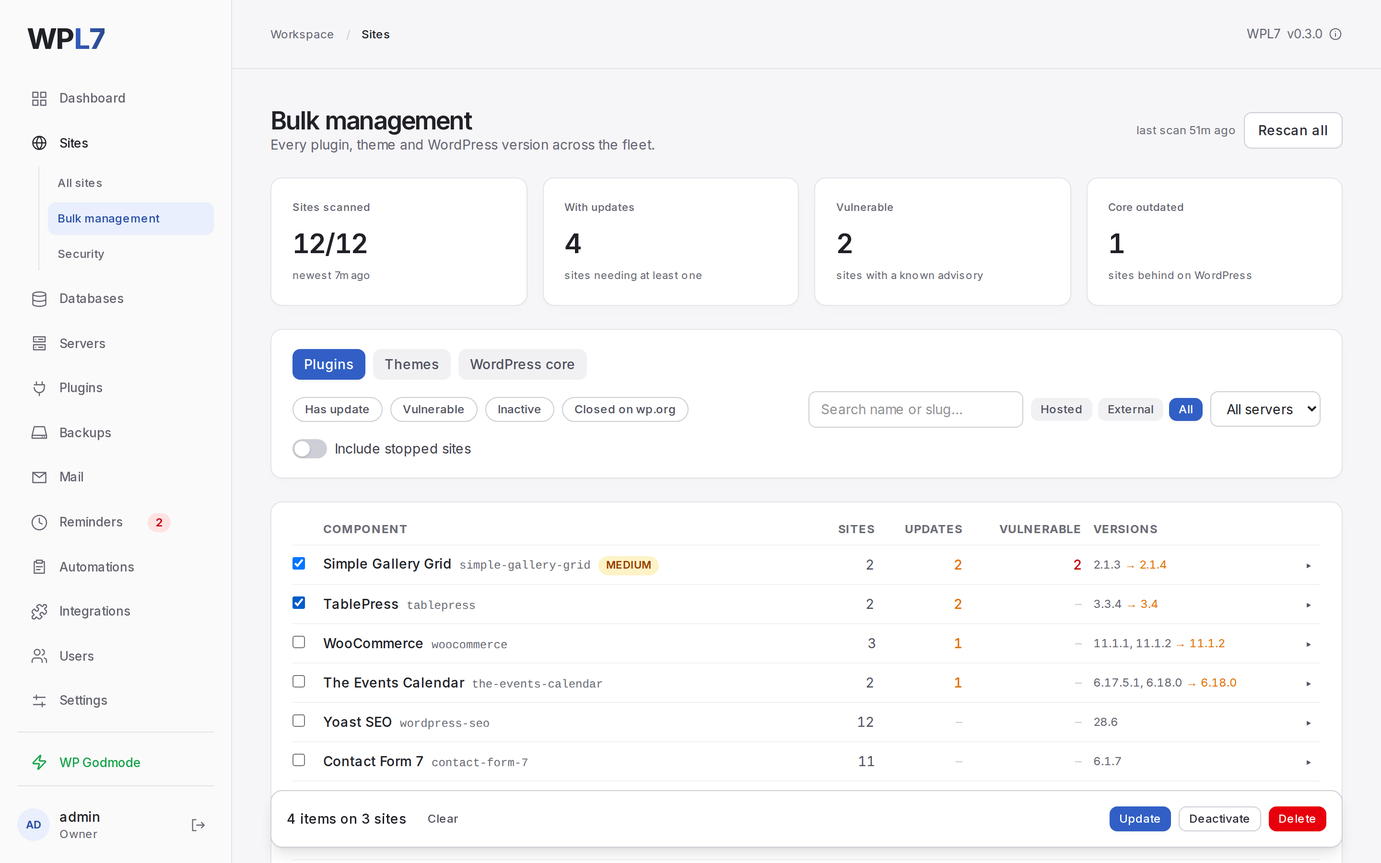
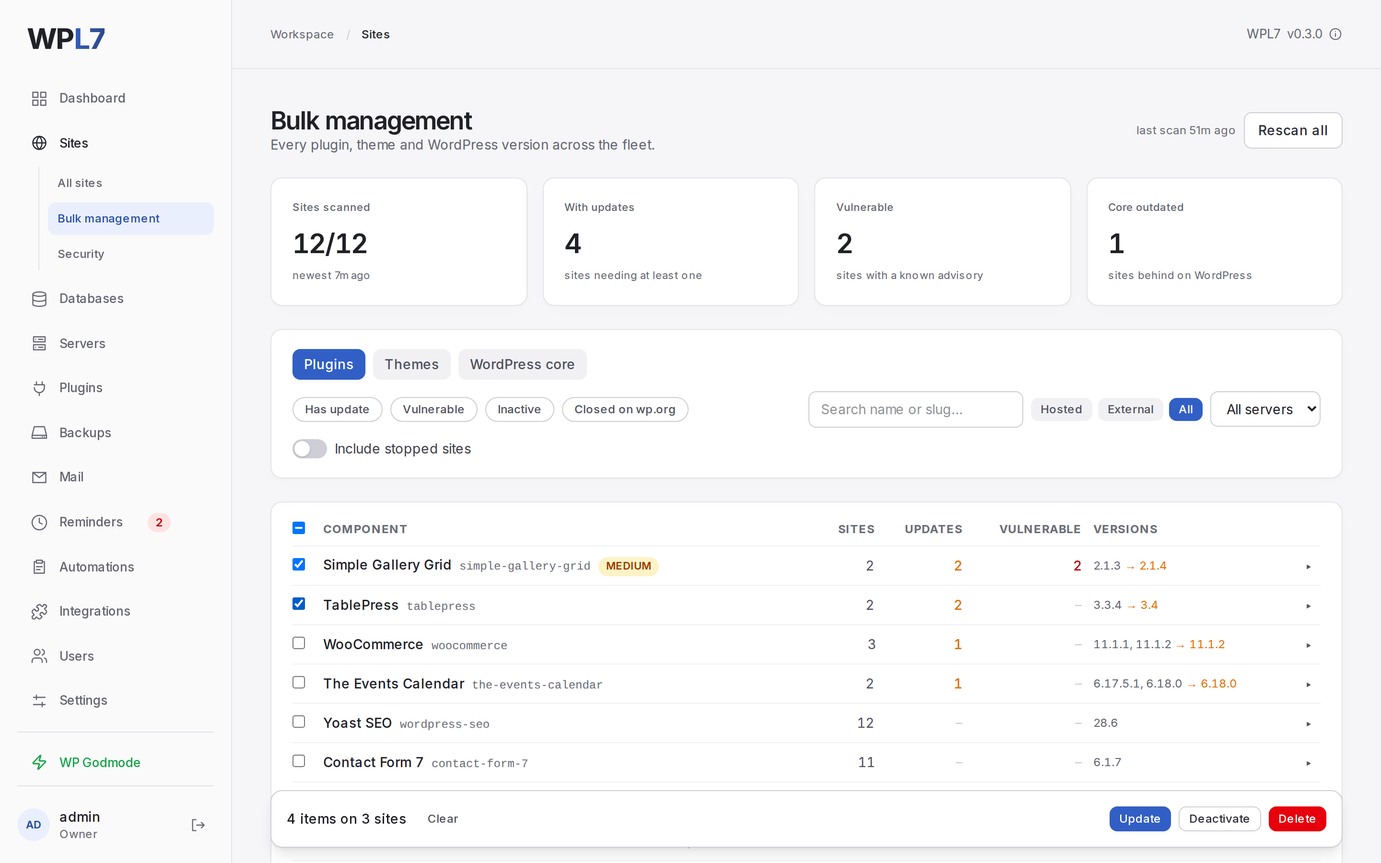
Bulk management's table has a checkbox in its header that selects or clears every row shown (#79)
The header checkbox selects each listed component on every site the filters show, the same
rows the per-row checkboxes select. When everything is selected it clears the selection, and
it is partly checked when only some rows are.

The six High watchlist rows that were due are rechecked. Traefik's rate limit has a second
upstream bug, traefik#14328: requests that arrive at once from a new visitor each get a full
bucket. Its fix, traefik#14329, is now part of the entry's check.

diff --git a/panel/web/src/pages/BulkManagement.tsx b/panel/web/src/pages/BulkManagement.tsx
@@ -24,6 +24,8 @@ import {
   allowedActions,
   filtersForKind,
   reconcileSelection,
+  selectAll,
+  selectionState,
   targetKey,
   targetsForSites,
   visibleRows,
@@ -176,11 +178,13 @@ export function BulkManagement() {
     });
   };
 
-  const groupState = (group: WpInventoryRow): 'none' | 'some' | 'all' => {
-    const keys = group.siteRows.map((r) => targetKey({ siteSlug: r.siteSlug, kind: group.kind, slug: group.slug }));
-    const hits = keys.filter((k) => selected.has(k)).length;
-    return hits === 0 ? 'none' : hits === keys.length ? 'all' : 'some';
-  };
+  const groupState = (group: WpInventoryRow) =>
+    selectionState(
+      selected,
+      group.siteRows.map((r) => targetKey({ siteSlug: r.siteSlug, kind: group.kind, slug: group.slug })),
+    );
+  /** The header checkbox stands for every per-site row on screen, as the filters show them. */
+  const allState = selectionState(selected, visible.keys());
 
   const runBatch = async (action: WpBulkAction) => {
     setError(null);
@@ -421,7 +425,18 @@ export function BulkManagement() {
           <table className="w-full text-sm">
             <thead>
               <tr className="text-left text-xs uppercase tracking-wide text-neutral-400">
-                <th className="w-8 pb-2" />
+                <th className="w-8 pb-2">
+                  <input
+                    type="checkbox"
+                    aria-label="Select all"
+                    title="Select all"
+                    checked={allState === 'all'}
+                    ref={(el) => {
+                      if (el) el.indeterminate = allState === 'some';
+                    }}
+                    onChange={(e) => setSelected(e.target.checked ? selectAll(visible) : new Map())}
+                  />
+                </th>
                 <th className="pb-2">{kind === 'core' ? 'Version' : 'Component'}</th>
                 <th className="pb-2 pr-3 text-right">Sites</th>
                 <th className="pb-2 pr-3 text-right">Updates</th>

diff --git a/panel/test/unit/bulkSelection.test.ts b/panel/test/unit/bulkSelection.test.ts
@@ -4,6 +4,8 @@ import {
   allowedActions,
   filtersForKind,
   reconcileSelection,
+  selectAll,
+  selectionState,
   targetKey,
   targetsForSites,
   visibleRows,
@@ -77,6 +79,21 @@ describe('bulk selection', () => {
     // Somebody else updated beta, so it no longer matches the "has update" filter.
     const refreshed = visibleRows([group('cf7', [siteRow('alpha')])]);
     expect([...reconcileSelection(selected, refreshed).keys()]).toEqual(['alpha|plugin|cf7']);
+  });
+
+  it('selects every row on screen from the header, and shows how much is selected', () => {
+    const visible = visibleRows([group('cf7', [siteRow('alpha'), siteRow('beta')]), group('seo', [siteRow('alpha')])]);
+    const all = selectAll(visible);
+    expect([...all.values()]).toEqual([target('alpha', 'cf7'), target('beta', 'cf7'), target('alpha', 'seo')]);
+    // Exactly what is on screen: nothing for the reconciliation to drop.
+    expect(reconcileSelection(all, visible)).toBe(all);
+
+    expect(selectionState(all, visible.keys())).toBe('all');
+    expect(selectionState(select(target('beta', 'cf7')), visible.keys())).toBe('some');
+    expect(selectionState(new Map(), visible.keys())).toBe('none');
+    // A row a refresh added makes a full selection partial again.
+    const refreshed = visibleRows([group('cf7', [siteRow('alpha'), siteRow('beta'), siteRow('gamma')]), group('seo', [siteRow('alpha')])]);
+    expect(selectionState(all, refreshed.keys())).toBe('some');
   });
 
   it('returns the same map when nothing was dropped, so it is safe in a setState updater', () => {

diff --git a/panel/web/src/pages/bulkSelection.ts b/panel/web/src/pages/bulkSelection.ts
@@ -49,6 +49,24 @@ export function reconcileSelection(
   return kept.size === selected.size ? selected : kept;
 }
 
+/** Every row on screen, selected: what the header checkbox selects. */
+export function selectAll(visible: Map<string, VisibleRow>): Map<string, Target> {
+  return new Map(
+    [...visible].map(([key, v]) => [key, { siteSlug: v.row.siteSlug, kind: v.kind, slug: v.slug }]),
+  );
+}
+
+/** How many of these rows are selected, for a checkbox that stands for all of them. */
+export function selectionState(selected: Map<string, Target>, keys: Iterable<string>): 'none' | 'some' | 'all' {
+  let total = 0;
+  let hits = 0;
+  for (const key of keys) {
+    total += 1;
+    if (selected.has(key)) hits += 1;
+  }
+  return hits === 0 ? 'none' : hits === total ? 'all' : 'some';
+}
+
 /** The selected targets that are still on screen, in selection order. */
 export function visibleTargets(selected: Map<string, Target>, visible: Map<string, VisibleRow>): Target[] {
   return [...selected.entries()].filter(([key]) => visible.has(key)).map(([, target]) => target);

diff --git a/docs/internal/watchlist.md b/docs/internal/watchlist.md
@@ -20,10 +20,10 @@ for a reason; remove one once there is nothing left to watch.
 | [RDAP: registry endpoints and bootstrap](#rdap-registry-endpoints-and-bootstrap) | Medium | 2026-11-13 13:08 UTC | .co, .io, .me and .us still absent from IANA; all four supplement endpoints publish `expiration`; RFC 8056 and ICANN's profile unchanged |
 | [Reminders: PHP and OS support dates](#reminders-php-and-os-support-dates) | Medium | 2026-11-13 13:02 UTC | All dates match; PHP 8.6 not out (GA due 2026-11-19); the interim Ubuntu 26.10 is not in the map |
 | [Reminders: Cloudflare token lifetime](#reminders-cloudflare-token-lifetime) | Medium | 2026-11-13 13:15 UTC | Contracts unchanged; neither verify endpoint is documented to take `cfoat_` OAuth tokens, so one would get no date |
-| [Traefik: an idle visitor's rate limit refills](#traefik-an-idle-visitors-rate-limit-refills) | High | 2026-11-15 19:04 UTC | Open upstream, fix #13958 awaiting review; not in v3.7.19; worked around |
-| [AMWScan: the pinned image and its signatures](#amwscan-the-pinned-image-and-its-signatures) | High | 2026-11-15 19:04 UTC | 0.21.20 is out as a tag and an image, with no release yet; same definitions as the pinned 0.21.12; its Lite mode skips more signatures and no longer errors on oversized scripts |
+| [Traefik: an idle visitor's rate limit refills](#traefik-an-idle-visitors-rate-limit-refills) | High | 2026-11-24 09:18 UTC | Open upstream, fix #13958 awaiting review; not in v3.7.20 or v3.8.0; worked around. New, #14328: requests arriving at once each get a full bucket, past the bursts of 2 |
+| [AMWScan: the pinned image and its signatures](#amwscan-the-pinned-image-and-its-signatures) | High | 2026-11-24 09:19 UTC | 0.21.20 released on 2026-11-15, the latest; same definitions as the pinned 0.21.12; moving the pin is due |
 | [AMWScan: WPL7's tuning of it](#amwscan-wpl7s-tuning-of-it) | Medium | 2026-11-01 09:08 UTC | Both overrides still match in 0.21.15, the latest; `@preg_replace` is still 22c684e7; engine test not run at this check |
-| [SFTPGo: our build and its overwrite patch](#sftpgo-our-build-and-its-overwrite-patch) | High | 2026-11-15 19:04 UTC | 2.7.6 is the latest; patch still needed |
+| [SFTPGo: our build and its overwrite patch](#sftpgo-our-build-and-its-overwrite-patch) | High | 2026-11-24 09:19 UTC | 2.7.6 is the latest, no new advisory; patch still needed |
 | [PHP security releases and the site image's floor](#php-security-releases-and-the-site-images-floor) | High | 2026-11-19 19:51 UTC | 8.2.36, 8.3.37, 8.4.28 and 8.5.13 out today, all security releases: floor raised to them, released in 0.4.1; Docker's bases and the edge images carry them; the refresh workflow has had no scheduled run on `main` yet |
 | [phpredis: the pinned 6.3.0](#phpredis-the-pinned-630) | Medium | 2026-11-01 09:08 UTC | 6.3.0 is the latest on PECL and GitHub |
 | [Redis in the site image](#redis-in-the-site-image) | Medium | 2026-11-01 09:08 UTC | Debian's 5:8.0.2-3+deb13u3; three open issues on trixie, none reachable here; `LICENSE.txt` still offers AGPLv3 |
@@ -40,8 +40,8 @@ for a reason; remove one once there is nothing left to watch.
 | [Docker: the build cache and image names, as the nightly clean-up reads them](#docker-the-build-cache-and-image-names-as-the-nightly-clean-up-reads-them) | Medium | 2026-10-27 17:47 UTC | Docker 29.9.2: both prune parameters trim, `all` would remove shared layers first |
 | [Docker: a CPU cap stays on a running container](#docker-a-cpu-cap-stays-on-a-running-container) | Low | 2026-10-19 16:22 UTC | Open upstream; worked around by a new container |
 | [Docker: a signal counts as stopping a container by hand](#docker-a-signal-counts-as-stopping-a-container-by-hand) | Medium | 2026-11-01 06:30 UTC | Docker 28.1.1: after `docker kill --signal USR1`, a container with `unless-stopped` that exits stays down |
-| [Traefik: a router on web beside the HTTPS redirect](#traefik-a-router-on-web-beside-the-https-redirect) | High | 2026-11-14 20:51 UTC | Traefik 3.7.19: with the redirect at priority 1, an app's http router answers, everything else still redirects, the ACME router stays above |
-| [Docker: an image's labels on its container](#docker-an-images-labels-on-its-container) | High | 2026-11-14 20:51 UTC | Docker 28.1.1, Traefik 3.7.19: labels are inherited; `traefik.enable=false` on the container wins; the default router answers on 80 and 443 |
+| [Traefik: a router on web beside the HTTPS redirect](#traefik-a-router-on-web-beside-the-https-redirect) | High | 2026-11-24 09:19 UTC | Traefik 3.7.20 and 3.8.0: nothing on entry point redirections, router priorities or the ACME HTTP challenge; engine test not run at this check |
+| [Docker: an image's labels on its container](#docker-an-images-labels-on-its-container) | High | 2026-11-24 09:19 UTC | Docker 29.10.0, Traefik 3.7.20 and 3.8.0: nothing on label inheritance, `exposedByDefault` or the default rule; engine test not run at this check |
 | [Docker: the names in an image archive](#docker-the-names-in-an-image-archive) | Medium | 2026-11-14 20:51 UTC | Docker 28.1.1 and 27.5.1: the classic store reads `manifest.json`, containerd's `index.json`; renamed in both, only the panel's name lands |
 | [Docker: the registry's distribution answer and pulls with a login](#docker-the-registrys-distribution-answer-and-pulls-with-a-login) | Medium | 2026-11-14 20:51 UTC | Docker 28.1.1 and 27.5.1: a digest without a pull, with the login; platforms for a list only on containerd's store |
 | [Docker: unprivileged ports from 0](#docker-unprivileged-ports-from-0) | Low | 2026-11-14 20:51 UTC | Docker 28.1.1 sets `ip_unprivileged_port_start=0` in a container's namespace |
@@ -73,7 +73,7 @@ for a reason; remove one once there is nothing left to watch.
 | [msmtp: one envelope sender, as `wpl7-sendmail` relies on it](#msmtp-one-envelope-sender-as-wpl7-sendmail-relies-on-it) | Low | 2026-11-11 23:04 UTC | msmtp 1.8.28 in the image, 1.8.34 upstream; nothing since changes the four behaviours; the engine mail tests pass |
 | [sodium_compat for PHP 7.0 in CI](#sodium_compat-for-php-70-in-ci) | Low | 2026-10-09 15:55 UTC | 1.24.2 is the newest 1.x and takes PHP 7; 2.x needs 8.1 |
 | [The MariaDB image's bash and client, as the database browser and imports rely on them](#the-mariadb-images-bash-and-client-as-the-database-browser-and-imports-rely-on-them) | Medium | 2026-11-19 08:16 UTC | `mariadb:11.4` (11.4.13 on Ubuntu 24.04, rebuilt 2026-11-11) has bash 5.2 with `/dev/tcp`, and its client refuses a dump's commands; the engine test passes |
-| [Adminer: the pinned build and its advisories](#adminer-the-pinned-build-and-its-advisories) | High | 2026-11-15 19:04 UTC | 6.3.0 (2026-11-03) is the latest, 6.2.0 still pinned; its sign-in answers 303, which the panel refuses; no new advisory; base is PHP 8.4.27 |
+| [Adminer: the pinned build and its advisories](#adminer-the-pinned-build-and-its-advisories) | High | 2026-11-24 09:20 UTC | 6.3.1 (2026-11-20) is the latest, 6.2.0 still pinned; its low `where` advisory is in 6.2.0's code too, the SQLite one not in the MySQL build; base PHP 8.4.28, image 8.4.27 |
 | [wordpress.org's directory, as the panel's closed flag reads it](#wordpressorgs-directory-as-the-panels-closed-flag-reads-it) | Medium | 2026-11-19 11:43 UTC | The feed still calls `bbpress` and `bbpress-private-replies` closed and misses `captcha`; the directory answers as `wporgListing` reads them |
 | [Google's crawler address lists](#googles-crawler-address-lists) | Medium | 2026-11-03 09:35 UTC | Both answer: 589 prefixes, none wider than a /27 or a /64 |
 | [ssh2: how a channel closes, as the panel's SSH channels rely on it](#ssh2-how-a-channel-closes-as-the-panels-ssh-channels-rely-on-it) | Low | 2026-11-15 10:57 UTC | 1.17.0 is the latest; channels half-open by default, `destroy()` never marks one destroyed, `'close'` waits for `'end'` or an unreadable stream |
@@ -81,57 +81,70 @@ for a reason; remove one once there is nothing left to watch.
 ## Traefik: an idle visitor's rate limit refills
 
 - **Priority:** High
-- **Last checked:** 2026-11-15 19:04 UTC. [traefik#13957](https://github.com/traefik/traefik/issues/13957)
-  is open, with nothing since the Traefik team said on 2026-09-28 they would reproduce it. Its
-  fix, [traefik#13958](https://github.com/traefik/traefik/pull/13958) (against `v3.7`, milestone
-  3.7), still waits for review, with nothing since a user's comment of 2026-10-29 asking for a
-  merge. v3.7.19 (2026-11-13) is now the latest, which `traefik:v3.7` in
-  `deploy/docker-compose.yml` follows. Neither it nor v3.7.18 (2026-11-10) has a rate-limiter
-  item in its notes, and nor have v2.11.62, v2.11.63, v3.8.0-rc.2 and v3.8.0-rc.3, out on the same
-  two days. v3.7.18 fixes five advisories, in the Compress, BasicAuth and ForwardAuth
-  middlewares, the ingress-nginx provider and the clean-up of request paths; v3.7.19 moves three
-  dependencies. None of the five reaches WPL7, which sets up none of those middlewares and not the
-  ingress-nginx provider. The path one, [GHSA-cp28-5662-543f](https://github.com/traefik/traefik/security/advisories/GHSA-cp28-5662-543f),
-  leaves `/..;x/` in the path a router matches, which bypasses a rule only in front of a backend
-  that strips path parameters, such as a servlet container; Apache and nginx, in front of PHP,
-  take `..;x` for a folder's name. Nothing under `pkg/middlewares/ratelimiter` has changed on `v3.7`, `v3.8` or
-  `master` since 2026-09-24. A server gets the five when it next pulls `traefik:v3.7`.
+- **Last checked:** 2026-11-24 09:18 UTC. [traefik#13957](https://github.com/traefik/traefik/issues/13957)
+  is open, with nothing from the Traefik team since 2026-09-28. Its fix,
+  [traefik#13958](https://github.com/traefik/traefik/pull/13958) (against `v3.7`, milestone 3.7),
+  still waits for review. Two users have commented since the last check. One (2026-11-19) measured
+  a residual on top of it: the in-memory map keeps expiries in whole seconds, so a bucket can still
+  go up to a second early, and suggested a one-line follow-up. v3.7.20, v3.8.0 and v2.11.64 came
+  out on 2026-11-23, none with a rate-limiter item in its notes. `traefik:v3.7` moved to 3.7.20 that
+  evening and does not follow 3.8 (`v3.8` and `latest` do). Nothing under
+  `pkg/middlewares/ratelimiter` has changed on `v3.7`, `v3.8` or `master` since 2026-09-24.
+  3.7.20 fixes three advisories, published on 2026-11-24: memory exhaustion through the Compress
+  middleware's Brotli writer
+  ([GHSA-3rh5-223h-cpwr](https://github.com/traefik/traefik/security/advisories/GHSA-3rh5-223h-cpwr),
+  high), provider credentials in debug logs and support dumps (GHSA-42x2-976f-ph52), and hosts with
+  a trailing dot evading TLS-option conflict detection (GHSA-9657-c2gv-wjpj). None reaches WPL7,
+  which sets up no Compress middleware, no HTTP provider, no Docker provider password and no
+  client-certificate TLS options, and logs at INFO. A server gets them when it next pulls
+  `traefik:v3.7`. New and related:
+  [traefik#14328](https://github.com/traefik/traefik/issues/14328) (2026-11-19, labelled confirmed):
+  in the in-memory backend, requests that arrive at once from a source without a bucket each make a
+  full one, so more than `burst` get through, and again each time an idle bucket has expired
+  (#13957). Its test let up to 16 of 16 simultaneous first requests through at a burst of 5. The
+  bursts of 2 do not cover a guesser who sends requests in parallel after each pause; not measured
+  here. Its fix, [traefik#14329](https://github.com/traefik/traefik/pull/14329) (against `v3.7`, no
+  milestone), waits for review.
 - **The problem:** Traefik drops a visitor's rate-limit bucket after `1 + 1/rate` seconds without
   a request - 2 seconds for limits of one a second or more, 4 for 20 a minute - and starts the
   next request on a full burst. With logins at 20 a minute in bursts of 30, a guesser who paused
-  five seconds got 30 more every time.
+  five seconds got 30 more every time. Requests that arrive at once from a visitor with no bucket
+  each get a full one ([traefik#14328](https://github.com/traefik/traefik/issues/14328)), so
+  requests sent in parallel get past the burst too. Attack detection, on by default, still blocks an
+  address that keeps at it.
 - **What we do about it:** logins (Standard 20 a minute, Strict 6) and XML-RPC (30 a minute)
   come in bursts of 2, so a pause gains two (`LEVEL_PRESETS` in `panel/shared/security.ts`).
   Requests and assets keep their large bursts; `docs/security.md` lists that as a known limit.
-- **Check:** `gh issue view 13957 -R traefik/traefik --comments`, and the release notes of every
-  Traefik release since the last check for rate-limit changes. `traefik:v3.7` follows 3.7.x
+- **Check:** `gh issue view 13957 -R traefik/traefik --comments`, `gh issue view 14328 -R
+  traefik/traefik --comments` and its fix, `gh pr view 14329 -R traefik/traefik`, and the release
+  notes of every Traefik release since the last check for rate-limit changes. `traefik:v3.7` follows 3.7.x
   releases: `setup.sh` pulls it (`compose pull`) whenever it runs, as on an update.
 - **When it changes:** once a release we deploy has the fix, measure it. Use a file-provider
   router with `rateLimit` average 20, period 1m, burst 30. Send 40 requests, wait five seconds,
-  send 40 more: fixed, the second round gets one or two through, not 30. Then offer the user the
+  send 40 more: fixed, the second round gets one or two through, not 30. For #14328's fix, send 40
+  at once from an address with no bucket: fixed, 30 get through, not 40. Then offer the user the
   plan's bursts back (logins 30 Standard and 10 Strict, XML-RPC 30). Update the `LEVEL_PRESETS`
   comment, the level table and the known limit in `docs/security.md`.
 
 ## AMWScan: the pinned image and its signatures
 
 - **Priority:** High
-- **Last checked:** 2026-11-15 19:04 UTC. Upstream moved on the day of this check: 0.21.16 to
-  0.21.20 were tagged within half an hour, after a 0.22.0 it took back, and of the five only
-  0.21.20 has a Docker Hub image. None has a GitHub release yet, so v0.21.15 (2026-10-03) is still
-  the latest there. We pin 0.21.12, whose definitions are 2026.09.08.1, and 0.21.20 bundles the
-  same: its `signatures.json`, `exploits.json` and `hashes.json` are those of 0.21.15 byte for
-  byte, `functions.json` has the same content, and the manifest differs in `createdAt` only. What
-  changed is the engine and the image. `--lite`, which WPL7 passes, now skips four more signatures
+- **Last checked:** 2026-11-24 09:19 UTC. 0.21.20 got its GitHub release ("Maintenance release")
+  at 19:20 UTC on 2026-11-15, 16 minutes after the last check, and is the latest. Nothing has been
+  tagged or committed since. Its release's phar bundles definitions 2026.09.08.1, the pinned
+  0.21.12's: `signatures.json`, `exploits.json` and `hashes.json` byte for byte, `functions.json`
+  with the same content, and the definition sources are identical at both tags. Docker Hub's
+  `0.21.20` (also `0.21` and `latest`) is
+  `sha256:430618977f11050678535ea591417e157d2c9f70b2fe42f9370ac09afdcd5b22`, amd64 and arm64,
+  rebuilt from the release commit at 19:21 UTC that day. What changed since 0.21.12 is the engine
+  and the image, as the last check found. `--lite`, which WPL7 passes, skips four more signatures
   (`0f53abf5`, `85310fdd`, `8c60fbdb`, `e6300ec0`) and any signature match that contains `ls-la`
-  or a schema.org product snippet. It also defines `LITE_SIGNATURE_MATCH_EXCLUSIONS`, which
-  0.21.12 to 0.21.15 read without defining: in Lite mode, a signature found in the first or last
-  32 KiB of an oversized script raises a PHP error there (`Undefined constant`) instead of a
-  finding. What the pinned scanner then reports for that file was not traced. There is a new
-  `--memory-limit` (the default stays 1G), a patched Symfony Filesystem, and libxml2 and musl from
-  Alpine edge in the image. The pin stays for now: the signatures are the same, and a release that
-  took five tags in half an hour may not have settled. Moving it comes up again once 0.21.20, or
-  what follows it, has a release: it would report fewer Lite-mode false positives, end the
-  oversized-script error, and check every catalog zip again.
+  or a schema.org product snippet. It defines `LITE_SIGNATURE_MATCH_EXCLUSIONS`, which 0.21.12 reads
+  without defining: in Lite mode, a signature in the first or last 32 KiB of an oversized script
+  raises `Undefined constant` there instead of a finding. There is a new `--memory-limit` (default 1G), a patched Symfony
+  Filesystem, and libxml2 and musl from Alpine edge. The condition the last check set for moving
+  the pin is met: a release, and nothing since in nine days. The move (**When it changes**) is
+  due; this check did not make it.
 - **The problem:** the scanner image is pinned by digest (`SCANNER_IMAGE` in
   `panel/src/services/scanEngines.ts`) and runs with `--disable-definitions-update`. Its
   signatures are the ones bundled in that image, and they age until the pin moves. Upstream
@@ -180,18 +193,20 @@ for a reason; remove one once there is nothing left to watch.
 ## SFTPGo: our build and its overwrite patch
 
 - **Priority:** High
-- **Last checked:** 2026-11-15 19:04 UTC. We build v2.7.6 (commit 62ae9ba3) with
+- **Last checked:** 2026-11-24 09:19 UTC. We build v2.7.6 (commit 62ae9ba3) with
   `deploy/sftpgo-image/staged-overwrite.patch`; v2.7.6 (2026-09-19) is still the latest release,
   and no advisory has been published since the four of that day, which 2.7.6 fixes (one high:
   stored XSS through directory names in the WebClient). The `2.7.x` branch has not moved since
-  2026-09-26. `main` got 12 commits, pushed 2026-11-09 to 2026-11-15, among them a fix for a
-  panic when a rename's target is missing on S3, a periodic check that closes sessions no longer
-  valid, the external auth hook answering first in keyboard-interactive sign-in, and an
-  ftpserverlib update. None changes how an upload replaces a file: they touch none of the upload
-  handlers the patch changes, and the rename that completes an atomic upload
-  (`BaseTransfer.Close`, `internal/common/transfer.go`) is unchanged since 2026-10-17. The
-  patch's code still applies to `main`; one test hunk, in `internal/sftpd/sftpd_test.go`, does
-  not. `main` now needs Go 1.27, so the builder image moves with the next release.
+  2026-09-26. `main` got 9 commits, 2026-11-19 to 2026-11-21. One (0f4cece8) removes creating
+  symbolic links over every protocol (`symlink_mode` is ignored with a warning) and opens sub-path
+  mounts inside their folder; WPL7 never grants `create_symlinks` (`FULL_ACCESS` in
+  `panel/src/services/ftpConfig.ts`). The others merge directories in recursive copies, refuse a
+  file in a parent path on object storage, add `loaddata-fail-on-error`, and update dependencies.
+  None changes how an upload replaces a file: the FTP, SFTP and SCP handlers on `main` still rename
+  the existing file to the temporary path first, and `BaseTransfer.Close`
+  (`internal/common/transfer.go`) is unchanged since 2026-10-17. The patch's code still applies to
+  `main` (360ca011), with offsets; the one test hunk in `internal/sftpd/sftpd_test.go` still does
+  not. `main` needs Go 1.27, so the builder image moves with the next release.
 - **The problem:** SFTPGo is on the internet (FTP and SFTP). Upstream's `upload_mode: 1` renames
   an existing file to a temporary name before an overwrite, so the file is missing for the whole
   transfer - WordPress without its `wp-config.php` shows the installer - and is deleted if the
@@ -610,12 +625,19 @@ for a reason; remove one once there is nothing left to watch.
 ## Traefik: a router on web beside the HTTPS redirect
 
 - **Priority:** High
-- **Last checked:** 2026-11-14 20:51 UTC. On Traefik 3.7.19, with `deploy/docker-compose.yml`'s own
-  flags plus `--entrypoints.web.http.redirections.entrypoint.priority=1`, a container app's router on
-  `web` answers plain http, and every other request on port 80 still redirects: a WordPress and a PHP
-  site under the panel's labels and protection files, and a host nobody has. The ACME challenge router
-  (`acme-http@internal`, MaxInt) stays above every app route, and Pebble issued certificates over
-  HTTP-01 for the app's host and the sites'. Without the flag, the redirect beats every router on `web`.
+- **Last checked:** 2026-11-24 09:19 UTC. v3.7.20 and v3.8.0 came out on 2026-11-23; `traefik:v3.7`
+  is now 3.7.20 and does not follow 3.8. Neither's notes, nor the v3.8.0 migration guide, touch entry
+  point redirections, router priorities or the ACME HTTP challenge. 3.7.20 moves lego to v5.7.0 and
+  keeps the OCSP staple cache alive. 3.8.0 adds `**.` wildcard hosts, which rank below single
+  wildcards and leave the default priority of existing rules unchanged. From v3.7.19 to v3.7.20
+  nothing changed in the internal provider that makes the redirect router, nor in the HTTP
+  challenge's code. The engine test was not run at this check. At the last one, on Traefik 3.7.19
+  with `deploy/docker-compose.yml`'s flags and the redirect at priority 1, a container app's router
+  on `web` answered plain http, and every other request on port 80 still redirected: a WordPress and
+  a PHP site under the panel's labels and protection files, and a host nobody has. The ACME challenge
+  router (`acme-http@internal`, MaxInt) stayed above every app route, and Pebble issued certificates
+  over HTTP-01 for the app's host and the sites'. Without the flag, the redirect beats every router
+  on `web`.
 - **The problem:** a container app may answer plain http (a payment provider's webhook, an old client).
   Traefik's entry point redirect is a router of its own; its default priority is the highest there is,
   so a router on `web` never answers. Set to 1, any router there wins over it.
@@ -634,11 +656,17 @@ for a reason; remove one once there is nothing left to watch.
 ## Docker: an image's labels on its container
 
 - **Priority:** High
-- **Last checked:** 2026-11-14 20:51 UTC. On Docker 28.1.1 with Traefik 3.7.19, an image's `traefik.*`
-  and `wpl7.*` labels land on a container made without labels: Traefik routed another site's domain to
-  it at once, and `listManaged(['wpl7.role=wordpress'])` counted it as that site's. `traefik.enable=false`
-  on the container wins over the image's. A container with `traefik.enable=true` and only a service label
-  gets a default router, `Host(<container name>)` with no TLS, on ports 80 and 443.
+- **Last checked:** 2026-11-24 09:19 UTC. Docker Engine 29.10.0 (2026-11-16, API 1.57) is the only
+  Engine release since the last check; neither its notes nor the API changelog say anything about
+  labels. Traefik 3.7.20 and 3.8.0 change nothing in how the Docker provider reads labels:
+  `pkg/config/label` and the provider's label parsing are unchanged, `exposedByDefault` still
+  defaults to true and the default rule is still `` Host(`{{ normalize .Name }}`) ``. 3.7.20 only
+  keeps the provider's password out of logs. The engine test (items 3 and 7) was not run at this
+  check. At the last one, on Docker 28.1.1 with Traefik 3.7.19, an image's `traefik.*` and `wpl7.*`
+  labels landed on a container made without labels: Traefik routed another site's domain to it at
+  once, and `listManaged(['wpl7.role=wordpress'])` counted it as that site's. `traefik.enable=false`
+  on the container won over the image's. A container with `traefik.enable=true` and only a service
+  label got a default router, `Host(<container name>)` with no TLS, on ports 80 and 443.
 - **The problem:** a container app's image is the user's, built elsewhere. Its labels would claim
   domains in Traefik and pass for a site's container in the panel's sweeps.
 - **What we do about it:** an image with a `traefik.*` or `wpl7.*` label is refused after its pull or
@@ -1468,22 +1496,28 @@ for a reason; remove one once there is nothing left to watch.
 ## Adminer: the pinned build and its advisories
 
 - **Priority:** High
-- **Last checked:** 2026-11-15 19:04 UTC. No release and no advisory since the last check.
-  Adminer 6.3.0 (2026-11-03) is the latest release; the image still pins 6.2.0. 6.3.0 fixes a
-  CSRF regression from 6.0.1 that has no advisory: a POST
-  with any `auth[]` field and a wrong token had the token replaced by a valid one, and ran its
-  action in the existing session (vrana/adminer#1375). It does not reach our build: `router.php`
-  refuses a POST with `auth` that lacks the panel's login key, and the panel's own sign-in posts
-  no token. The notes rename or remove no hook `wpl7.php` uses, and `connection()`,
-  `adminer_object()` and `X-Forwarded-Prefix` work as before; they add the plugin methods
-  `executeQuery()` and `donation()`. But redirects after a POST now answer 303, not 302, the
-  sign-in's and Logout's among them, and the panel takes anything but 302 as a refused sign-in
-  (`prepare()` in `panel/src/adminer/index.ts`). Moving the pin needs that check to accept 303
-  too, the tests that expect 302 changed, and the engine test run on 6.3.0, which this check did
-  not do. There are still 22 advisories, the newest
-  GHSA-r9r5-j5q8-8c59 (2026-09-25), in the SQLite driver, which the MySQL-only build leaves out.
-  The image's base, `php:8.4-cli-alpine`, is still PHP 8.4.27 (built 2026-11-05). The engine test
-  was not run at this check.
+- **Last checked:** 2026-11-24 09:20 UTC. [Adminer 6.3.1](https://github.com/vrana/adminer/releases/tag/v6.3.1)
+  came out on 2026-11-20 and is the latest; the image still pins 6.2.0. It fixes two advisories
+  published that day, 24 in all now.
+  [GHSA-5xfm-7vgj-3f39](https://github.com/vrana/adminer/security/advisories/GHSA-5xfm-7vgj-3f39)
+  (medium, a `file:` URI as a database name, then a PHP file written) is in the SQLite driver, which
+  the pinned MySQL-only file leaves out: it has no `check_sqlite_name`.
+  [GHSA-qjv8-pw8g-jw65](https://github.com/vrana/adminer/security/advisories/GHSA-qjv8-pw8g-jw65)
+  (low) puts keys of `where[]` from the URL into the Select page's search form unescaped, an HTML
+  attribute injection. It names only 6.3.0, but `selectSearchPrint` is the same in 6.2.0 and the
+  pinned file prints `name='where[$r][col]'`. The front door refuses a request another site starts
+  (`Sec-Fetch-Site`), which is how such a link would arrive. 6.3.1 also escapes, with no advisory, a
+  geometry column's name in conditions, edit and export (SQL injection) and a FULLTEXT index's name
+  in the search form (HTML injection); the pinned file has both unescaped. Both names come from the
+  site's own schema, and Adminer signs in as that site's own user. A POST sent with an expired
+  session now runs after the sign-in only if Adminer sent it, and the CSRF token is 128 bits. The
+  notes rename or remove no hook `wpl7.php` uses, and the 6.3.1 file still calls all ten,
+  `connection()` and `adminer_object()`. Moving the pin still needs `prepare()` in
+  `panel/src/adminer/index.ts` to take the 303 that 6.3.0 brought, the tests that expect 302
+  changed, and the engine test run on 6.3.1, which this check did not do. The base,
+  `php:8.4-cli-alpine`, has been PHP 8.4.28, a security release, since 2026-11-19; the published
+  `6.2.0-wpl7.1` image is still on 8.4.27. Its `php.ini` leaves `session.upload_progress.enabled`
+  at PHP's default, on, which the site image turns off.
 - **The problem:** "Open in Adminer" runs Adminer's MySQL-only English build on every server
   that uses it, pinned in `deploy/adminer-image/Dockerfile` by `ADMINER_VERSION` and
   `ADMINER_SHA256`. It sits behind the panel's front door, signs in as a site's own database
